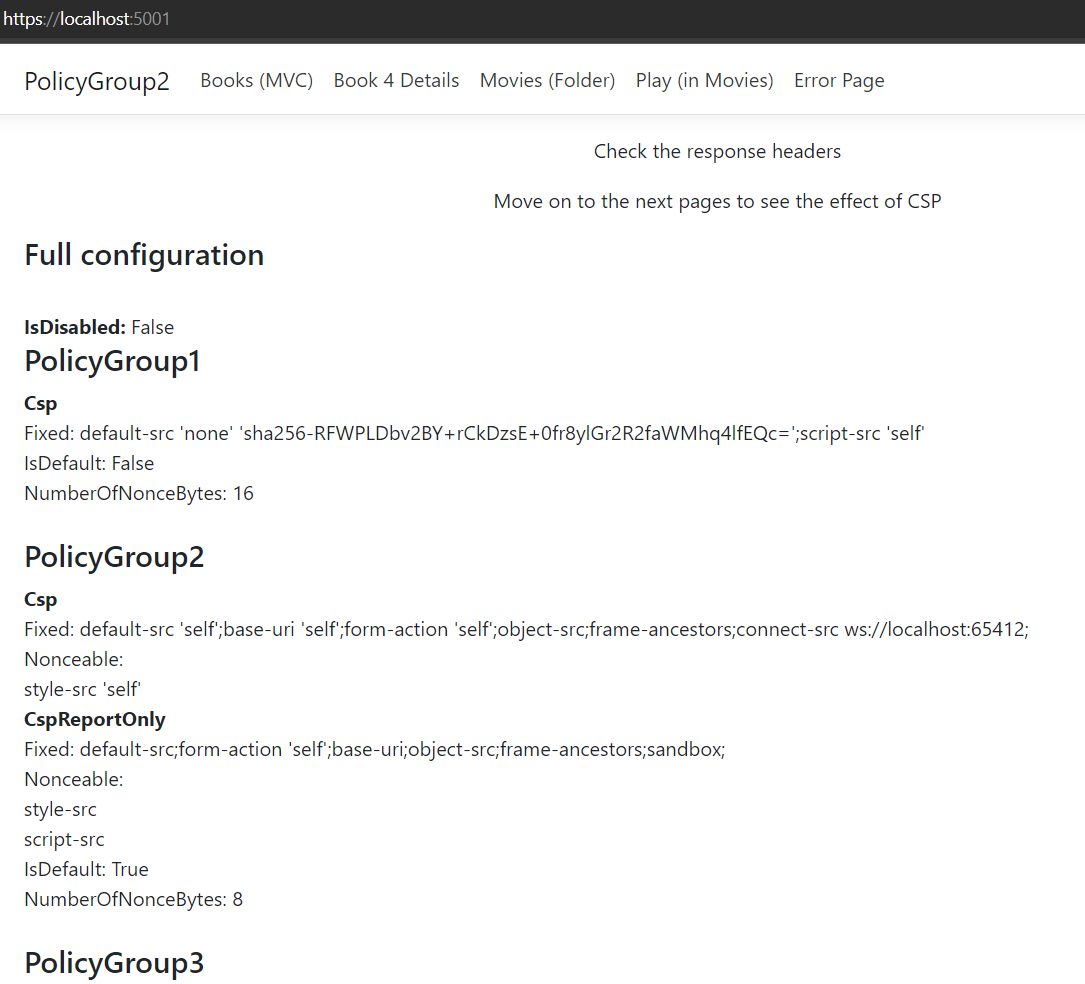
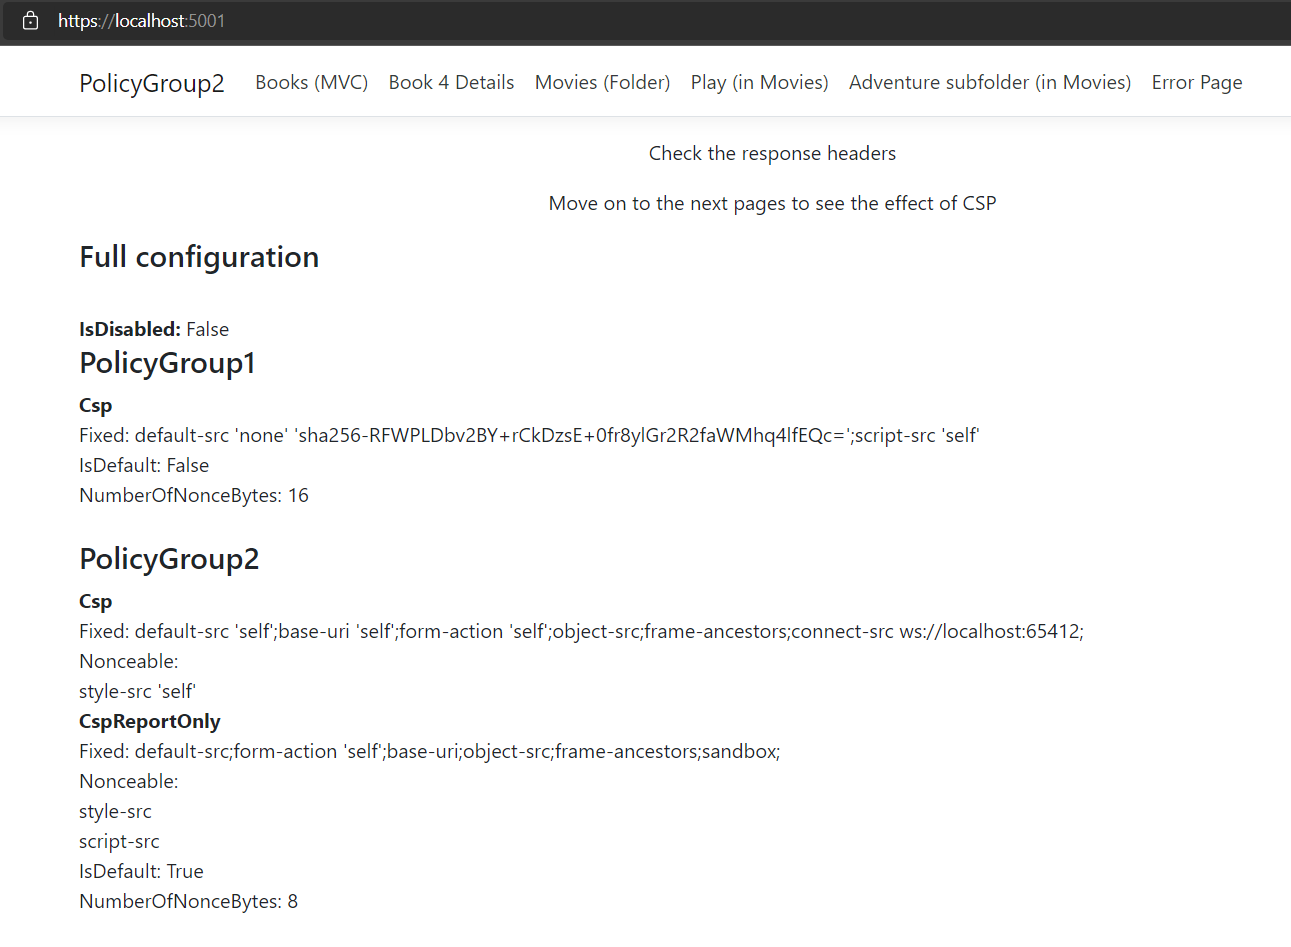
Added Subfolder example in Program.cs, update image and text

Changed region(s): [[0.0, 0.245, 0.9429, 1.0], [0.0, 0.0, 1.0, 0.245]]

diff --git a/samples/Headers.Csp.Sample/Program.cs b/samples/Headers.Csp.Sample/Program.cs
@@ -42,6 +42,10 @@ builder.Services.AddRazorPages(options =>
     model => model.Filters.Add(new EnableCspPageFilter { PolicyGroupName = "PolicyGroup1" }));
     //model => model.Filters.Add(new DisableCspPageFilter { EnforceMode = false }));
 
+    options.Conventions.AddFolderApplicationModelConvention(
+     "/Movies/Adventure",
+ model => model.Filters.Add(new EnableCspPageFilter { PolicyGroupName = "PolicyGroup3" }));
+
     options.Conventions.AddPageApplicationModelConvention("/Error",
         model=>model.Filters.Add(new EnableCspPageFilter { PolicyGroupName="PolicyGroup3"}));
 

diff --git a/samples/Headers.Csp.Sample/Pages/Movies/Adventure/Index.cshtml.cs b/samples/Headers.Csp.Sample/Pages/Movies/Adventure/Index.cshtml.cs
@@ -1,0 +1,15 @@
+using System;
+using System.Collections.Generic;
+using System.Linq;
+using System.Threading.Tasks;
+using Microsoft.AspNetCore.Mvc;
+using Microsoft.AspNetCore.Mvc.RazorPages;
+
+namespace Headers.Csp.Sample.Pages.Movies.Adventure;
+
+public class IndexModel : PageModel
+{
+    public void OnGet()
+    {
+    }
+}

diff --git a/src/Galebra.Security.Headers.Csp/README.md b/src/Galebra.Security.Headers.Csp/README.md
@@ -344,6 +344,14 @@ builder.Services.AddRazorPages(options =>
 });
 ````
 
+And carry on with another policy group for subfolders
+
+````csharp
+    options.Conventions.AddFolderApplicationModelConvention(
+     "/Movies/Adventure",
+ model => model.Filters.Add(new EnableCspPageFilter { PolicyGroupName = "PolicyGroup3" }));
+````
+
 You can also disable CSP in a folder:
 
 ````chsarp
